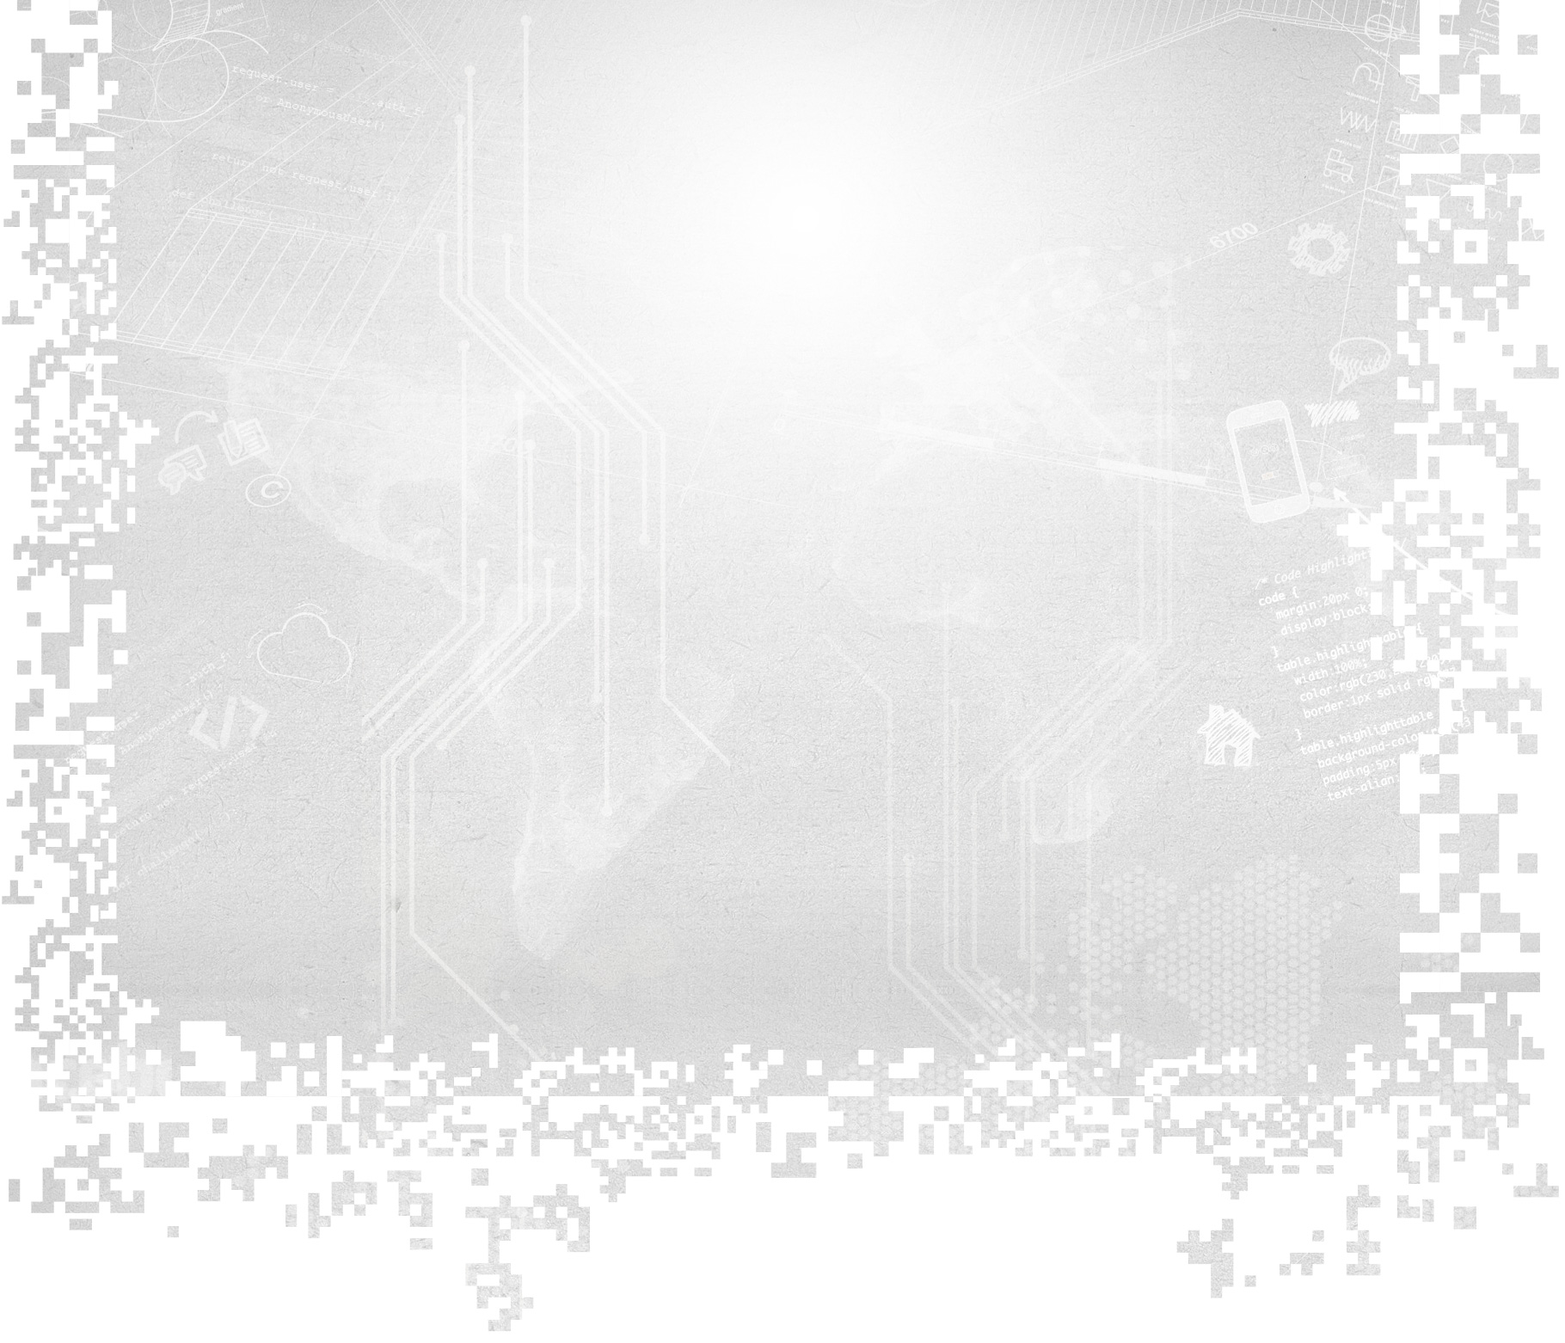
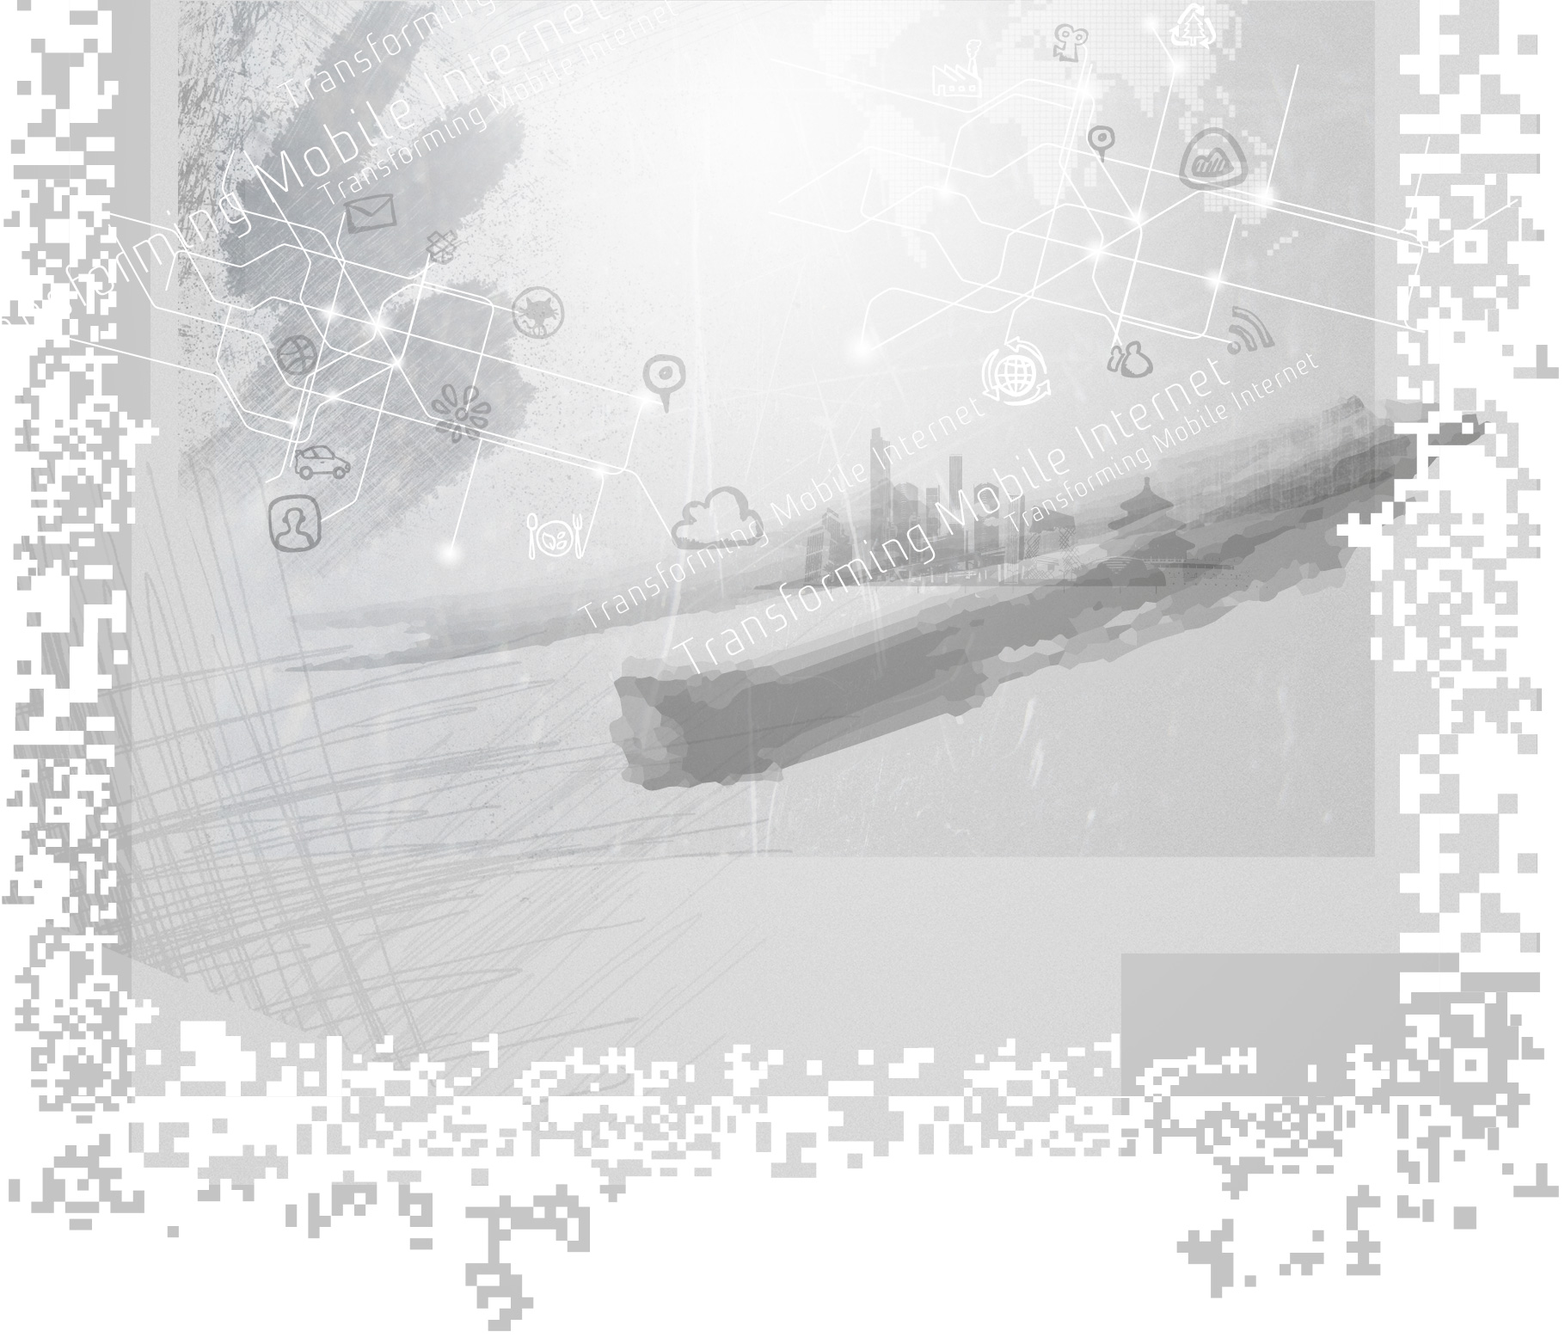
first set of style changes
background;
logo;
link colors;

diff --git a/style.css b/style.css
@@ -45,13 +45,13 @@ table { border-collapse: collapse; border-spacing: 0; }
 /*------------------------------------------------*/
 
 html {
-	background: url(images/BG.jpg) no-repeat top center fixed;
+	background: url(images/bg-web3.jpg) no-repeat top center fixed;
 }
 
 body { line-height: 20px; font-family: "HelveticaNeue57Condensed", "Helvetica Neue Condensed", "Helvetica", sans-serif; font-size: 13px; color: #676761;  padding: 0px; }
 body.page-template-page-landing-php {font-family: "HelveticaNeue57Condensed", "Helvetica Neue Condensed", "Helvetica", sans-serif !important;}
-a { text-decoration: none; color: #cc3300; }
-a:hover { text-decoration: underline; color:#cc3300; }
+a { text-decoration: none; color: #b32828; }
+a:hover { text-decoration: underline; }
 .clear { clear: both; }
 .ui-tabs-hide { display: none; }
 br.clear { margin: 0px; padding: 0px; }
@@ -94,7 +94,7 @@ img#about-image { float: left; margin: 3px 8px 8px 0px; }
 /*------------------------------------------------*/
 
 #container { text-align: left; margin: 0 auto; width: 960px; position: relative; }
-	#logo-area { float: right; margin: 16px 0 21px 0; }
+	#logo-area { float: right; margin-bottom: 21px; }
 		#logo { float: left; font-weight: bold; font-size: 34px; text-transform: uppercase; }
 			#logo a { color: #676761; text-decoration: none; }
 		#logo-area h2 { float: left; font-weight: normal; text-transform: uppercase; font-size: 14px; padding: 16px 0 0; letter-spacing: 0; }
@@ -102,15 +102,15 @@ img#about-image { float: left; margin: 3px 8px 8px 0px; }
 	    #breadcrumbs #top-menu {padding-top: 0;float: none; padding-bottom: 8px;}	
 		#top-menu li { padding-right: 17px; float:left; font-weight: bold; text-transform: uppercase; }
 			#top-menu a { font-size: 14px; color: #676761; text-decoration: none; }
-			   #breadcrumbs #top-menu a {color: #00000;}
-			   #breadcrumbs #top-menu a:hover {color: #cc3300;}
+			   #breadcrumbs #top-menu a {color: #424242;}
+			   #breadcrumbs #top-menu a:hover {color: #707070;}
 			#top-menu a:hover { color: #202020;}
 			.page-template-page-landing-php #top-menu a {font-family: 'Open Sans', Arial, sans-serif !important;}
 			#top-menu > ul > li.current-menu-item > a { font-weight: lighter; }
 	#phone { position: absolute; right: 0; top: -16px; font-style: italic; }	
-	#main-area { margin-bottom: 0px; background-color: #fff; background-color: rgba(255, 255, 255, 0.6); /*-webkit-box-shadow: 0px 0 4px rgba(0, 0, 0, 0.1); -moz-box-shadow: 0px 0 4px rgba(0, 0, 0, 0.1); box-shadow: 0px 0 4px rgba(0, 0, 0, 0.1); */}	
+	#main-area { margin-bottom: 0px; background-color: #fff; background-color: rgba(255, 255, 255, 0.4); /*-webkit-box-shadow: 0px 0 4px rgba(0, 0, 0, 0.1); -moz-box-shadow: 0px 0 4px rgba(0, 0, 0, 0.1); box-shadow: 0px 0 4px rgba(0, 0, 0, 0.1); */}	
 	.page-template-page-landing-php #main-area, .page-template-page-landing-chn-php #main-area { background: rgba(255, 255, 255, 0.4) url(images/sanjose.jpg) center bottom no-repeat; }
-		#featured { margin-bottom:58px; position: relative; }
+		#featured { margin-bottom:48px; position: relative; }
 			#left-arrow, #right-arrow { position: absolute; text-indent: -9999px; top: 50%; margin-top: -18px; width: 28px; height: 37px; display: block; }
 			#left-arrow { left: 65px; background:url(images/left-arrow.png) no-repeat; }
 			#right-arrow { right: 65px; background:url(images/right-arrow.png) no-repeat; }
@@ -120,21 +120,21 @@ img#about-image { float: left; margin: 3px 8px 8px 0px; }
 			#quote h2 a:hover {background-image: none; text-decoration: underline;}
 			#quote p { font-size: 15px; text-transform: uppercase; color: #333; }
 		#portfolio { margin-bottom: 90px; }
-			.section-title { float: left; padding: 0 15px 20px 20px; text-transform: uppercase; font-weight: bold; font-size: 26px; color: #676761; }
-			.section-tagline { float: left; font-weight: normal; font-size: 14px; text-transform: uppercase; padding-top: 11px;display:none; }
+			.section-title { float: left; padding: 0 15px 20px 20px; text-transform: uppercase; font-weight: bold; font-size: 30px; color: #676761; }
+			.section-tagline { float: left; font-weight: normal; font-size: 14px; text-transform: uppercase; padding-top: 11px; }
 			a.more, .comment-reply-link { float: right; font-weight: normal; font-size: 14px; text-transform: uppercase; padding-top: 11px; padding-right: 20px; text-decoration: none; color: #676761; }
-			a.more:hover, .comment-reply-link:hover { color: #cc3300;}
+			a.more:hover, .comment-reply-link:hover { color: #202020;}
 			  .home #blog a.more {margin-top: -40px;}
 			#portfolio-grid { clear: both; }
 				.portfolio-item { float: left; width: 240px; line-height: 0; }
 			#blog-grid { clear: both; font-weight: lighter; }	
-				.blog-item { float: left; width: 196px; border-top: 1px solid #f0f0e5; border-right: 1px solid #f0f0e5; position: relative; padding: 44px 45px 41px 78px; }
+				.blog-item { float: left; width: 196px; border-top: 1px solid #f0f0e5; border-right: 1px solid #f0f0e5; position: relative; padding: 44px 45px 24px 78px;}
 				.last { border-right: none; }
 					span.date { position: absolute; top: 0; left: 0; display: block; background-color: #f5f5ec; border-right: 1px solid #eaeadd; border-bottom: 1px solid #eaeadd; width: 48px; height: 45px; text-align: center; font-size: 11px; text-transform: uppercase; padding-top: 3px; }
 						span.date strong { display: block; font-size: 22px; font-weight: bold; margin-top: -3px; color: #676761; }
 					.blog-item h2 { text-transform: uppercase; font-weight: bold; font-size: 18px; padding-bottom: 5px; }	
 						.blog-item a { text-decoration: none; color: #676761; }
-						.blog-item a:hover { color: #cc3300; }
+						.blog-item a:hover { color: #484844; }
 					.meta-info { font-style: italic; font-size: 12px; color: #c0c0b5; padding-bottom: 7px; display: none;}
 					.category-recent-news .meta-info {display:block;}
 					.home .category-recent-news .meta-info {display:none;}
@@ -151,7 +151,7 @@ img#about-image { float: left; margin: 3px 8px 8px 0px; }
 			#left-area { width: 640px; float:left; }
 				.entry { border-bottom: 1px solid #f0f0e5; }
 				body.single .entry, body.page .entry { border: none; }
-					.entry .title, .page_title, #reply-title { font-weight: bold; font-size: 20px; padding: 20px 0 20px 20px; text-transform: uppercase; }
+					.entry .title, .page_title, #reply-title { font-weight: bold; font-size: 30px; padding: 20px 0 20px 20px; text-transform: uppercase; }
 					.page-template-page-landing-php .entry .title, .page-template-page-landing-php .page_title, .page-template-page-landing-php #reply-title {padding-left: 0;}
 						.title a, .page_title, #reply-title { color: #676761; text-decoration: none;}
 						.page-template-page-landing-php .title a, .page-template-page-landing-php .page_title, .page-template-page-landing-php #reply-title, .page-template-page-landing-chn-php .title a, .page-template-page-landing-chn-php .page_title, .page-template-page-landing-chn-php #reply-title { color: #0b60ae; text-decoration: none; font-family: "OstrichSansRounded"; font-weight: normal; font-size: 46px;}
@@ -174,11 +174,12 @@ img#about-image { float: left; margin: 3px 8px 8px 0px; }
 			#sidebar { width: 320px; float:left; }
 				.widget { padding: 50px 10px 8px 50px; }
 					#categoryposts-2.widget {padding-top: 32px;}
+					#text-4.widget {padding-top: 20px;}
 					#text-3.widget {padding-top: 16px;}
 					.widgettitle { font-weight: bold; text-transform: uppercase; font-size: 14px; color: #676761; padding-bottom: 13px; }
 						.widget li { background:url(images/footer-bullet.png) no-repeat 0 8px; padding-bottom: 7px; padding-left: 15px; font-weight: normal; font-size: 14px; }
 							.widget a { color:#676761; text-shadow:none; text-decoration: none; }
-								.widget a:hover { color:#cc3300; }
+								.widget a:hover { color:#2f2f2f; }
 	
 #et_ajax_portfolio_container { clear: both; border-top: 1px solid #f0f0e5; position: relative; }
 .et_ajax_container_active { min-height: 479px; }
@@ -206,6 +207,8 @@ body.single-project .flexslider { min-height: 485px; }
 	#et_portfolio_sort_links li { display: inline; margin: 0 8px; }
 		#et_portfolio_sort_links a, #et_portfolio_sort_links .active a:hover { color: #676761; font-size: 14px; text-transform: uppercase; }
 		#et_portfolio_sort_links a:hover { text-decoration: none; color: #111; }
+		.speakers_page#et_portfolio_sort_links a, .speakers_page#et_portfolio_sort_links .active a:hover { color: #1A78C8; font-size: 14px; border-bottom: 1px dotted #1A78C8; font-weight: bold; text-transform: none;}
+		.speakers_page#et_portfolio_sort_links a:hover { text-decoration: none; color: #111; border-bottom: none;}
 		#et_portfolio_sort_links .active a { font-weight: bold; }
 		
 		table {border-top: 1px solid #999; border-right: 1px solid #999;}
@@ -214,7 +217,11 @@ body.single-project .flexslider { min-height: 485px; }
 			table.noborder td {border:none;}
 		.post-content ul {padding-bottom: 14px;}
 		.post-content ul li {font-size:14px; list-style:disc; margin-left: 22px;}
-		
+
+.postid-3350 #left-area h1, .postid-3374 #left-area h1, .postid-3377 #left-area h1, .postid-3379 #left-area h1, .postid-3381 #left-area h1, .postid-3383 #left-area h1, .postid-3385 #left-area h1, .postid-3387 #left-area h1, .postid-3389 #left-area h1, .postid-3392 #left-area h1, .postid-3394 #left-area h1, .postid-3396 #left-area h1, .postid-3398 #left-area h1, .postid-3400 #left-area h1, .postid-3402 #left-area h1, .postid-3404 #left-area h1, .postid-3407 #left-area h1, .postid-3409 #left-area h1, .postid-3411 #left-area h1, .postid-3369 #left-area h1 {text-transform: none;}
+.postid-3350 #left-area .app_info, .postid-3374 #left-area .app_info, .postid-3377 #left-area .app_info, .postid-3379 #left-area .app_info, .postid-3381 #left-area .app_info, .postid-3383 #left-area .app_info, .postid-3385 #left-area .app_info, .postid-3387 #left-area .app_info, .postid-3389 #left-area .app_info, .postid-3392 #left-area .app_info, .postid-3394 #left-area .app_info, .postid-3396 #left-area .app_info, .postid-3398 #left-area .app_info, .postid-3400 #left-area .app_info, .postid-3402 #left-area .app_info, .postid-3404 #left-area .app_info, .postid-3407 #left-area .app_info, .postid-3409 #left-area .app_info, .postid-3411 #left-area .app_info, .postid-3369 #left-area .app_info {display: none;}
+.postid-3350 #left-area .app_sidebar, .postid-3374 #left-area .app_sidebar, .postid-3377 #left-area .app_sidebar, .postid-3379 #left-area .app_sidebar, .postid-3381 #left-area .app_sidebar, .postid-3383 #left-area .app_sidebar, .postid-3385 #left-area .app_sidebar, .postid-3387 #left-area .app_sidebar, .postid-3389 #left-area .app_sidebar, .postid-3392 #left-area .app_sidebar, .postid-3394 #left-area .app_sidebar, .postid-3396 #left-area .app_sidebar, .postid-3398 #left-area .app_sidebar, .postid-3400 #left-area .app_sidebar, .postid-3402 #left-area .app_sidebar, .postid-3404 #left-area .app_sidebar, .postid-3407 #left-area .app_sidebar, .postid-3409 #left-area .app_sidebar, .postid-3411 #left-area .app_sidebar, .postid-3369 #left-area .app_sidebar {display: none;}
+
 /*------------------------------------------------*/
 /*--------------[FEATURED SLIDER]-----------------*/
 /*------------------------------------------------*/
@@ -294,13 +301,13 @@ filter:progid:DXImageTransform.Microsoft.gradient(startColorstr=#4C000000,endCol
 /*---------------------[FOOTER]-------------------*/
 /*------------------------------------------------*/
 
-#copyright { font-size:14px; float:left; color: #cc3300;font-family: "HelveticaNeue57Condensed", "Helvetica Neue Condensed", "Helvetica", sans-serif;}
-	#copyright a { color:#676761; font-weight: bold;  color: #0b60ae;}
+#copyright { font-size:14px; float:left; color: #5182b3;font-family: "HelveticaNeue57Condensed", "Helvetica Neue Condensed", "Helvetica", sans-serif;}
+	#copyright a { font-weight: bold;  color: #0b60ae;}
 
 .footer_wrap { background: transparent url("images/whitebar.png") 0px -18px no-repeat;padding-top:47px;}
 	
-#main_footer { background: transparent url("images/footerbar.png") left bottom no-repeat;padding: 26px 0 38px 0;}
-#main_footer {margin-bottom: 110px;}
+#main_footer { background: transparent url("images/bluebar.png") left bottom no-repeat;padding: 26px 0 38px 0;}
+#main_footer {margin-bottom: 65px;}
 	/*---------------------[back to top button]-------------------*/
 	.home #backtotop {visibility: hidden;}
 	#backtotop {
@@ -308,7 +315,7 @@ filter:progid:DXImageTransform.Microsoft.gradient(startColorstr=#4C000000,endCol
 		right:0px;
 		bottom:135px;
 		display:none;/*hid the button first*/
-		background-color: #cc3300;
+		background-color: #C12B2B;
 		padding: 2px 0 0 4px;
 	}
 	#backtotop a {
@@ -321,7 +328,7 @@ filter:progid:DXImageTransform.Microsoft.gradient(startColorstr=#4C000000,endCol
 		font-size: 16px;
 		font-weight: bold;
 	}
-	#backtotop a:hover { 
+	#backtotop a:hover {
 		opacity:.8; /*mouse over fade effect*/
 	}
 	/*---------------------[sliding content]-------------------*/
@@ -332,12 +339,16 @@ filter:progid:DXImageTransform.Microsoft.gradient(startColorstr=#4C000000,endCol
 	.list_carousel {margin-left: 30px; border-left: 0px dotted #4083c6;}
 	.carousel_wrapper {width: 760px;}
 	ul#foo2 > li { list-style: none;}
-	h2.agenda_title {visibility: hidden;}
+	h2.agenda_title {}
 	#speaker_slider.image_carousel {position: static;}
 	.image_carousel {
-		padding: 15px 0 0px 0px; 
-		background: #e5e5e5 url("images/control_panel/body-bg17.png") repeat 0 0; bottom: 0; position: fixed; z-index: 99999999;
-		width: 100%; left:0;
+		padding: 10px 0 0px 0px; 
+		background: #e5e5e5 url("images/control_panel/body-bg17.png") repeat 0 0; 
+		position: fixed; 
+		bottom: 0; 
+		left:0;
+		width: 100%;
+		z-index: 99999999;
 		-moz-box-shadow:    inset 0px 0px 8px #4c4c4c;
 	    -webkit-box-shadow: inset 0px 0px 8px #4c4c4c;
 	    box-shadow:         inset 0px 0px 8px #4c4c4c;
@@ -390,10 +401,10 @@ filter:progid:DXImageTransform.Microsoft.gradient(startColorstr=#4C000000,endCol
 	    -webkit-box-shadow: none;
 	    box-shadow:         none;
 	    border-top: 0px solid #fff;
-	    margin-top: -10px;
 	    padding: 0 0 28px 0;
 	}
 	#foo1 div {height: 150px;width: 160px;float: left;}
+		#foo1 li {height: 150px;width: 160px;float: left; display: block;}
 	#foo1 span {display: block;text-align:center;}
 	#foo1 a {margin:0 auto; float: none; display:block; width: 90px; height: 90px; background: transparent url(images/keynote-speaker-icon_11.png) 0 0 no-repeat;}
 		#speaker2 a {background-image: url(images/keynote-speaker-icon_19.png);}
@@ -409,23 +420,27 @@ filter:progid:DXImageTransform.Microsoft.gradient(startColorstr=#4C000000,endCol
 	#foo1 a:hover {background-position: 0px -92px;}
 	#foo1 #speaker1 a {}
 	#speaker_slider.image_carousel p { color: #5a77b7;margin: 0 auto 10px auto; padding-bottom: 0px;width: 150px; border-bottom: 1px solid #d7e0f3; font-size: 16px;text-align: center;  font-family: "HelveticaNeue57Condensed", "Helvetica Neue Condensed", "Helvetica", sans-serif;}
+	/*---------------------[twitter ticker slider]-------------------*/
+	#twitter-ticker.image_carousel {position: static;}
+	#twitter-ticker.image_carousel .tweet {float: left;}
+	
 	
 /*------------------------------------------------*/
 /*--------------------[SIDEBAR]-------------------*/
 /*------------------------------------------------*/
-a.action-button {display: block; float: left; padding: 3px; background-color: rgba(255, 255, 255, 0.4);color: #fff; }
+a.action-button {display: block; float: left; padding: 3px; background-color: rgba(255, 255, 255, 0.7);color: #fff; }
 a.action-button .color {display: block;padding-left: 30px; background:#1a78c8 url(images/transparent-bar.png) 0 0 repeat-y;}
 a.action-button .text {display: block;background-color:#3fa2f7; font-family: "HelveticaNeue57Condensed", "Helvetica Neue Condensed", "Helvetica", sans-serif; padding: 6px 10px 8px 8px; font-size: 18px; }
 a.action-button:hover { background-color: transparent; text-decoration: underline;}
 #header a.action-button {margin: 22px 0 6px -3px;}
 
-a#go-register .color {background-color:#DF4740;background-position: -335px 0px;}
-a#go-register .text {background-color:#DF4740;}
-a#go-register:hover {color:#000000;text-decoration: none;}
+a#go-register .color {background-color:#a9332d;background-position: -335px 0px;}
+a#go-register .text {background-color:#a9332d;}
+a#go-register:hover {color:#f7eeed;text-decoration: none;}
 
-a#sponsor .color {background-position: -305px 0px;background-color:#F25822;}
-a#sponsor .text {background-color:#F25822;}
-a#sponsor:hover {color:#000000;text-decoration: none;}
+a#sponsor .color {background-position: -305px 0px;background-color:#a9332d;}
+a#sponsor .text {background-color:#a9332d;}
+a#sponsor:hover {color:#f7eeed;text-decoration: none;}
 
 a#wrap-up-doc {color:#1a78c8;}
 a#wrap-up-doc .color {background-color:#1a78c8;padding-left: 22px;background-position: -84px 0px;}
@@ -457,6 +472,94 @@ a#gmic-sv-brochure .text {background-color:#fff;font-size: 14px;padding:3px 7px 
 .social-buttons a:hover img {visibility: hidden;}
 #header .social-buttons {float: left; clear:left;padding-top: 12px;}
 
+/*------------------------------------------------*/
+/*------------[Twitter Ticker]-----------*/
+/*------------------------------------------------*/
+h2.tut{
+	/* This is the "MY TWEETS" title */
+	color:white;
+	font-family:"Myriad Pro", Arial, Helvetica, sans-serif;
+	font-size:16px;
+	padding:12px 0 0 58px;
+	text-transform:uppercase;
+
+	/* The CSS3 text-shadow property */
+	text-shadow:2px 1px 6px #333;
+}
+
+#twitter-ticker{
+	/* Styling the ticker */
+	height:60px;
+	background: transparent url(images/twitter_03.png) 41px 4px no-repeat;
+	color:#666666;
+	display:none;
+	clear: left;
+	width: 590px;
+	padding:0;
+	background-color: transparent;
+-moz-box-shadow: none;
+-webkit-box-shadow: none;
+box-shadow: none;
+border-top: 0px solid white;
+}
+.home #twitter-ticker, .page #twitter-ticker {width: 100%;padding:0; margin:0; background-position: 43px 14px;border-top: 1px solid #f0f0e5;padding-top:10px;}
+#sidebar #twitter-ticker {width: 260px; height: 90px;border-top: 1px solid #f0f0e5; border-bottom: 1px solid #f0f0e5; margin-bottom: 10px;}
+#text-2 {margin-top: -25px;}
+#tweet-container{
+	/* This is where the tweets are inserted */
+	height:230px;
+	width: 500px;
+}
+
+.tweet{
+	/* Affects the tweets */
+	padding:0px;
+	margin:0 8px 0 0;
+
+
+	width:586px;
+}
+.home .tweet, .page .tweet, .single .tweet {width: auto;padding:0; margin:0;float: left; line-height: 16px;}
+#sidebar .tweet {width: 260px;}
+#tweet-container .tweet a {color:#1A78C8;}
+.tweet .avatar,
+.tweet .user,
+.tweet .time{
+	float:left;
+}
+#sidebar .tweet .avatar {margin-bottom: 32px;}
+.tweet .time{
+	text-transform:uppercase;
+	font-size:10px;
+	color:#AAAAAA;
+	white-space:nowrap;
+}
+
+.tweet .avatar img{
+	width:38px;
+	height:38px;
+	border:2px solid #eeeeee;
+	margin:0 5px 5px 0; padding: 4px;
+}
+.tweet .user a {font-size: 12px; font-weight: normal; padding-right: 3px;margin-left:21px;}
+.tweet .txt{
+	/* Using the text container to clear the floats */
+	float: left;
+	width: 510px;
+	font-size: 11px; line-height: 14px;
+	padding-top: 2px;
+}
+.home .tweet .txt, .page .tweet .txt, .single .tweet .txt {width: auto;float: none; line-height: 12px;}
+#sidebar .tweet .txt {width: 200px;}
+.tweet .txt a {display: inline; float: none;}
+.tweet .user{
+	font-weight:bold;
+}
+#loading{
+	/* The loading gif animation */
+	margin:100px 95px;
+}
+#twitter-ticker .avatar {position: static;}
 /*------------------------------------------------*/
 /*------------[CAPTIONS AND ALIGNMENTS]-----------*/
 /*------------------------------------------------*/
@@ -643,6 +746,7 @@ body.tax-project_category .wp-pagenavi { border-top: 1px solid #F0F0E5; padding:
 	#left-area { width: 473px; }
 	#content-area:before { left: 473px; }
 	#sidebar { width: 255px; }
+	#sidebar #twitter-ticker {display: none;visibility: hidden;height:0;}
 	.depth-4 .children { padding-left: 0; }
 	
 	#et_contact_right { width: auto !important; margin-left: 0 !important; float: none !important; clear: both; }
@@ -678,6 +782,9 @@ body.tax-project_category .wp-pagenavi { border-top: 1px solid #F0F0E5; padding:
 	
 	.post-content p.silicon img { width: 380px;}
 	.post-content p.beijing img { margin-top: -16px;}
+	
+	#breadcrumbs {height: 48px;}
+	#breadcrumbs #top-menu {height: 48px;}
 }
 
 @media only screen and ( max-width: 767px ) {
@@ -743,6 +850,16 @@ filter: progid:DXImageTransform.Microsoft.gradient( startColorstr='#fffefe', end
 	.page-template-page-landing-php .page_title.sanjose, .page-template-page-landing-chn-php .page_title.sanjose {font-size:32px; line-height: 30px;}
 	.page-template-page-landing-php .page_title.sanjose span, .page-template-page-landing-chn-php .page_title.sanjose span {font-size: 28px;}
 	.post-content p.beijing img {margin: 0 auto; clear: both;float:none;display:block;}
+.title-tab {display: none;}
+.image_carousel {display:none;}
+#breadcrumbs {display: none;}
+#main_footer {margin-bottom: 0px;}
+#header .social-buttons {
+float: none;
+width: 146px;
+margin: 0 auto 0 auto;
+}
+#logo-area {margin-bottom: 0;}
 }
 
 @media only screen and ( max-width: 479px ) {
@@ -812,6 +929,8 @@ filter: progid:DXImageTransform.Microsoft.gradient( startColorstr='#fffefe', end
 	min-height:50%;
 }
 html {background-image: none;}
+#breadcrumbs {height: 48px;}
+#breadcrumbs #top-menu {height: 48px;}
 }
 
 @media only screen and (min-device-width: 481px) and (max-device-width: 1024px) and (orientation:landscape) {
